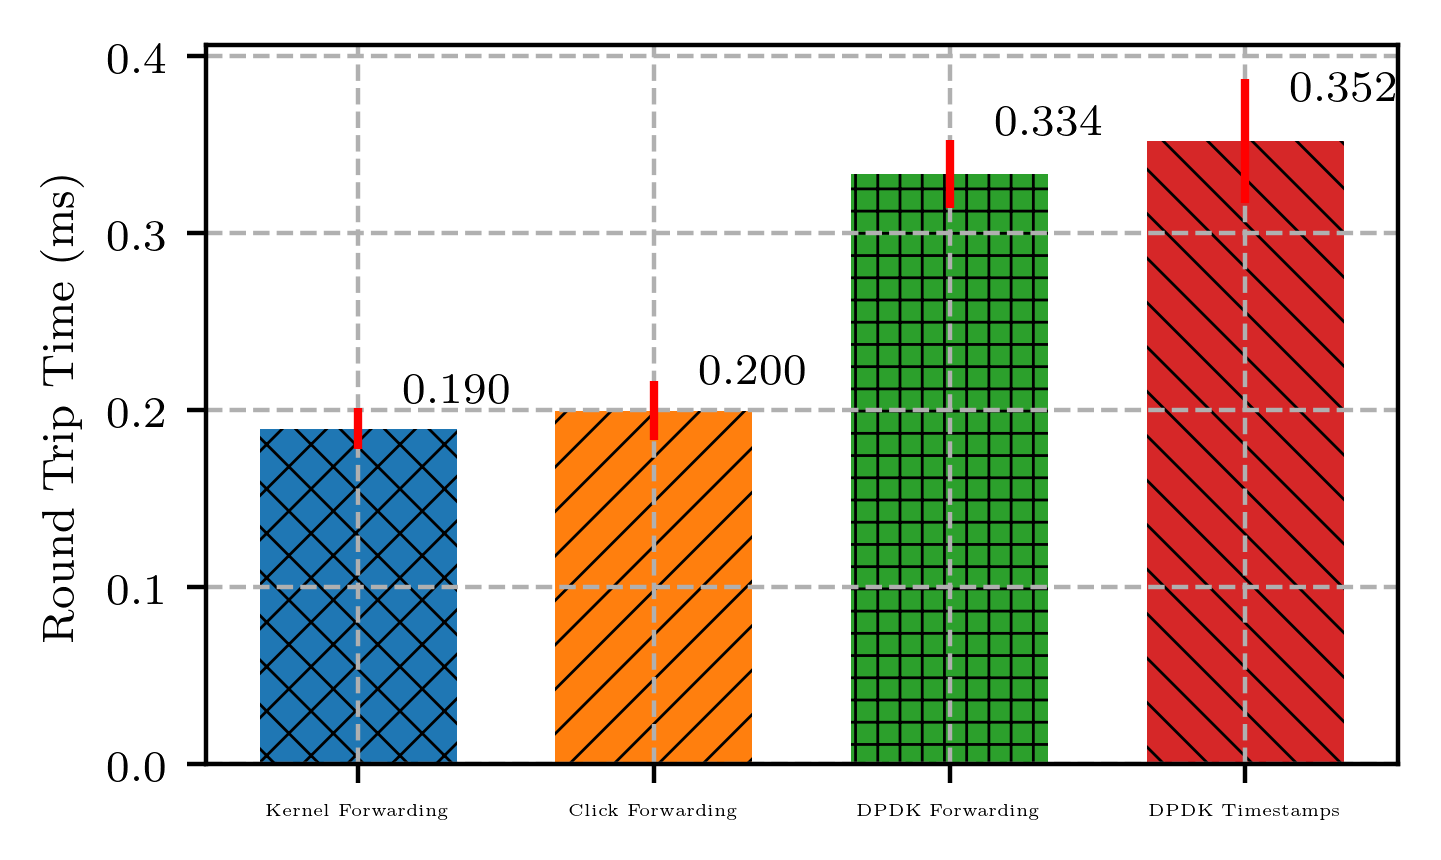
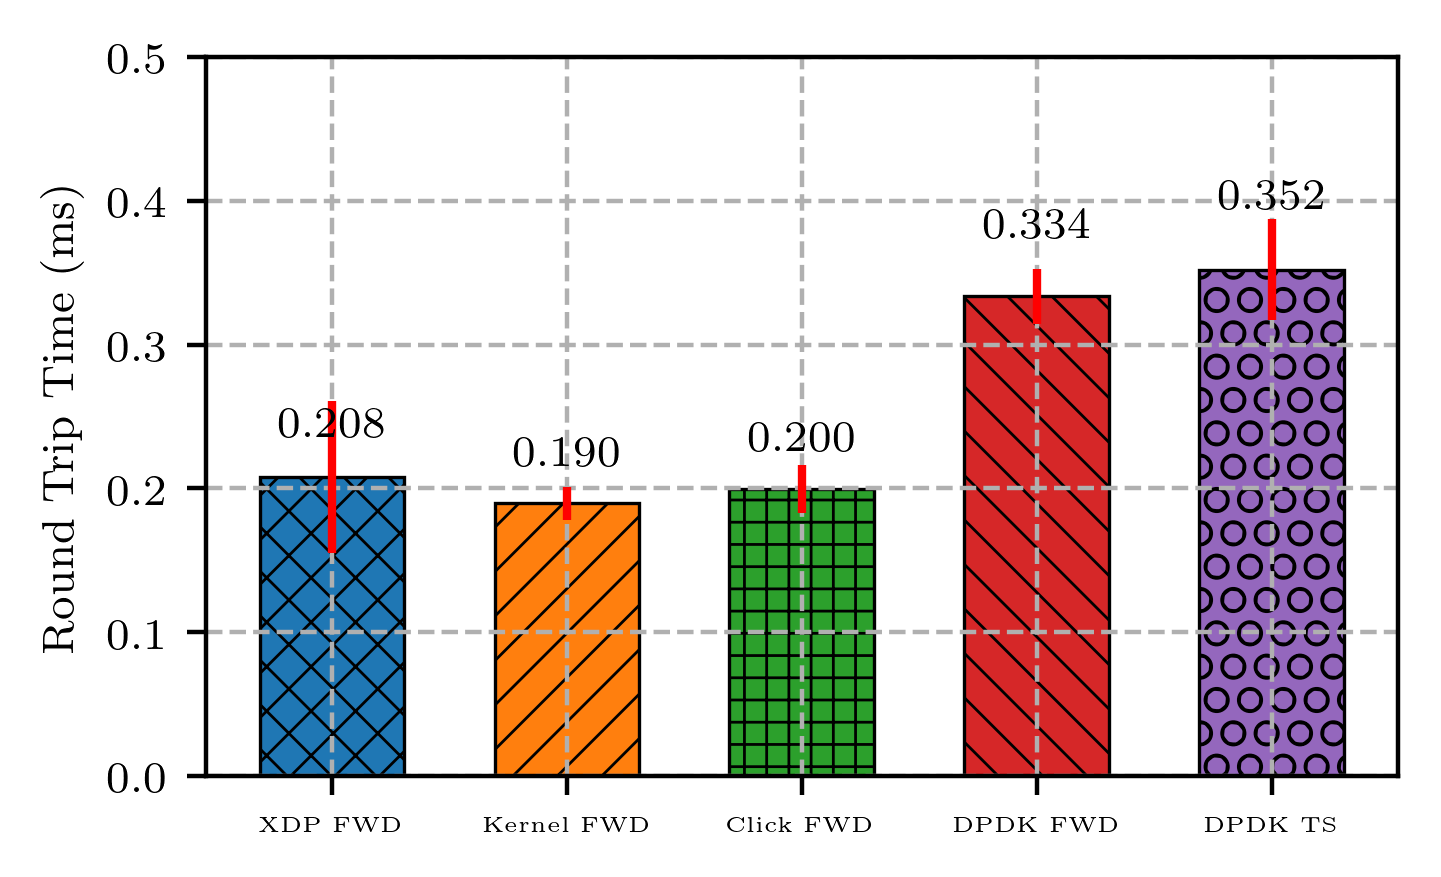
Add preliminary RTT results of XDP forwarding

diff --git a/evaluation/round_trip_time/plot.py b/evaluation/round_trip_time/plot.py
@@ -65,7 +65,7 @@ def label_bar(rects, ax):
     """
     for rect in rects:
         height = rect.get_height()
-        ax.text(rect.get_x() + rect.get_width() / 2. + 0.05, 1.05*height,
+        ax.text(rect.get_x() + rect.get_width() / 2., 1.1*height,
                 '%.3f' % height,
                 ha='center', va='bottom')
 
@@ -80,13 +80,13 @@ def plot_ipd():
     cmap = cm.get_cmap('tab10')
     techs = ['udp_rtt_' + x +
              '_%sms.csv' for x in (
-                 'lkfwd', 'click_fwd', 'dpdk_fwd', 'dpdk_appendts')
+                 'xdp_fwd', 'lkfwd', 'click_fwd', 'dpdk_fwd', 'dpdk_appendts')
              ]
-    xtick_labels = ('Kernel Forwarding', 'Click Forwarding',
-                    'DPDK Forwarding', 'DPDK Timestamps', 'Click Forwarding')
+    xtick_labels = ('XDP FWD', 'Kernel FWD', 'Click FWD',
+                    'DPDK FWD', 'DPDK TS', 'Click FWD')
     colors = [cmap(x) for x in range(len(techs))]
-    hatch_patterns = ('xxx', '///', '+++', '\\\\\\', 'ooo', 'OOO', '...')
-    bar_width = 0.10
+    hatch_patterns = ('xxx', '///', '+++', '\\\\\\', 'OO', 'ooo', '...')
+    bar_width = 0.08
     gap = 0.05
     fig, rtt_ax = plt.subplots()
     for idx, tech in enumerate(techs):
@@ -94,6 +94,7 @@ def plot_ipd():
         rtt_bar = rtt_ax.bar([0 + idx * (bar_width + gap)], [t[0] for t in rtt_result_lst],
                              yerr=[t[1] for t in rtt_result_lst],
                              color=colors[idx], ecolor='red',
+                             edgecolor='black', lw=0.6,
                              hatch=hatch_patterns[idx],
                              width=bar_width)
         label_bar(rtt_bar, rtt_ax)
@@ -101,8 +102,8 @@ def plot_ipd():
     rtt_ax.set_ylabel('Round Trip Time (ms)')
     rtt_ax.set_xticks([0 + x * (bar_width + gap) for x in range(len(techs))])
     # rtt_ax.set_xticks([0, 0+bar_width+gap])
-    rtt_ax.set_ylim(0, )
-    rtt_ax.set_xticklabels(xtick_labels, fontsize=3)
+    rtt_ax.set_ylim(0, 0.5)
+    rtt_ax.set_xticklabels(xtick_labels, fontsize=4)
     rtt_ax.grid(linestyle='--')
     save_fig(fig, './rtt_fix_ipd')
 
